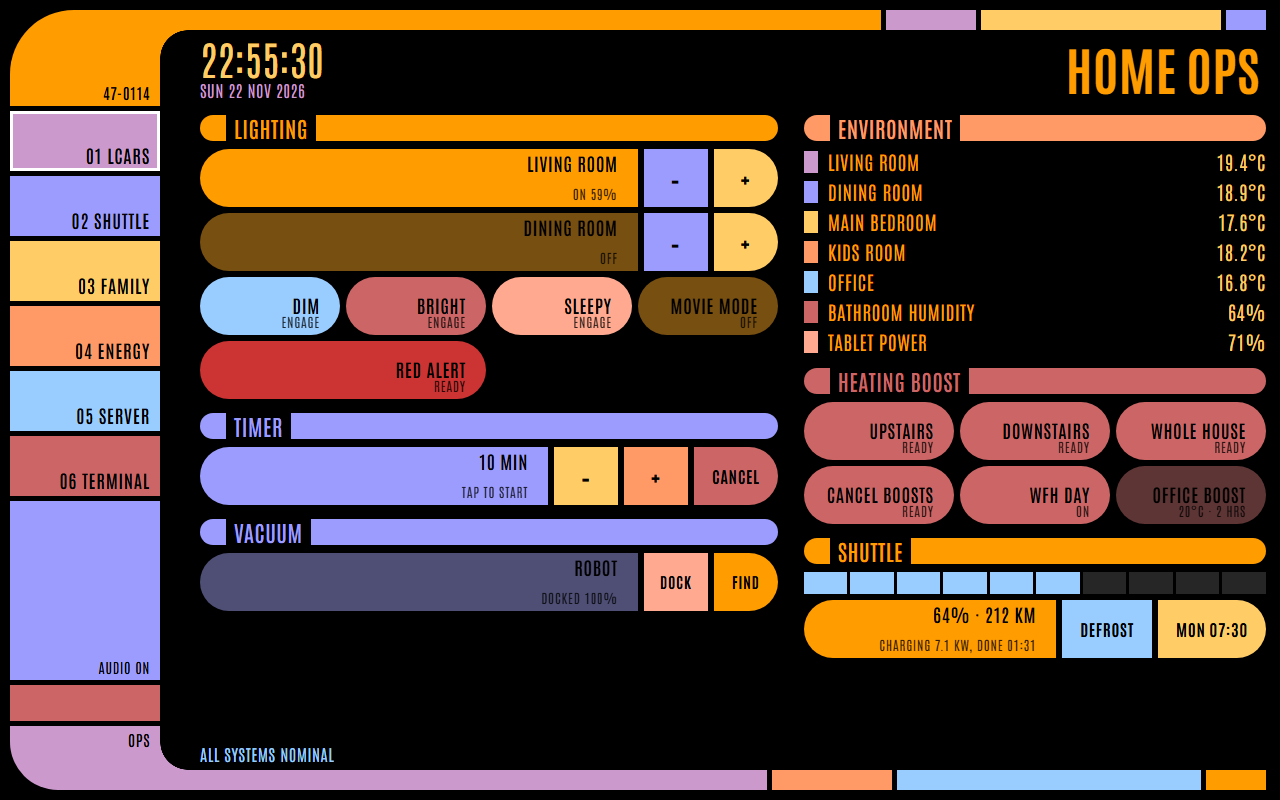
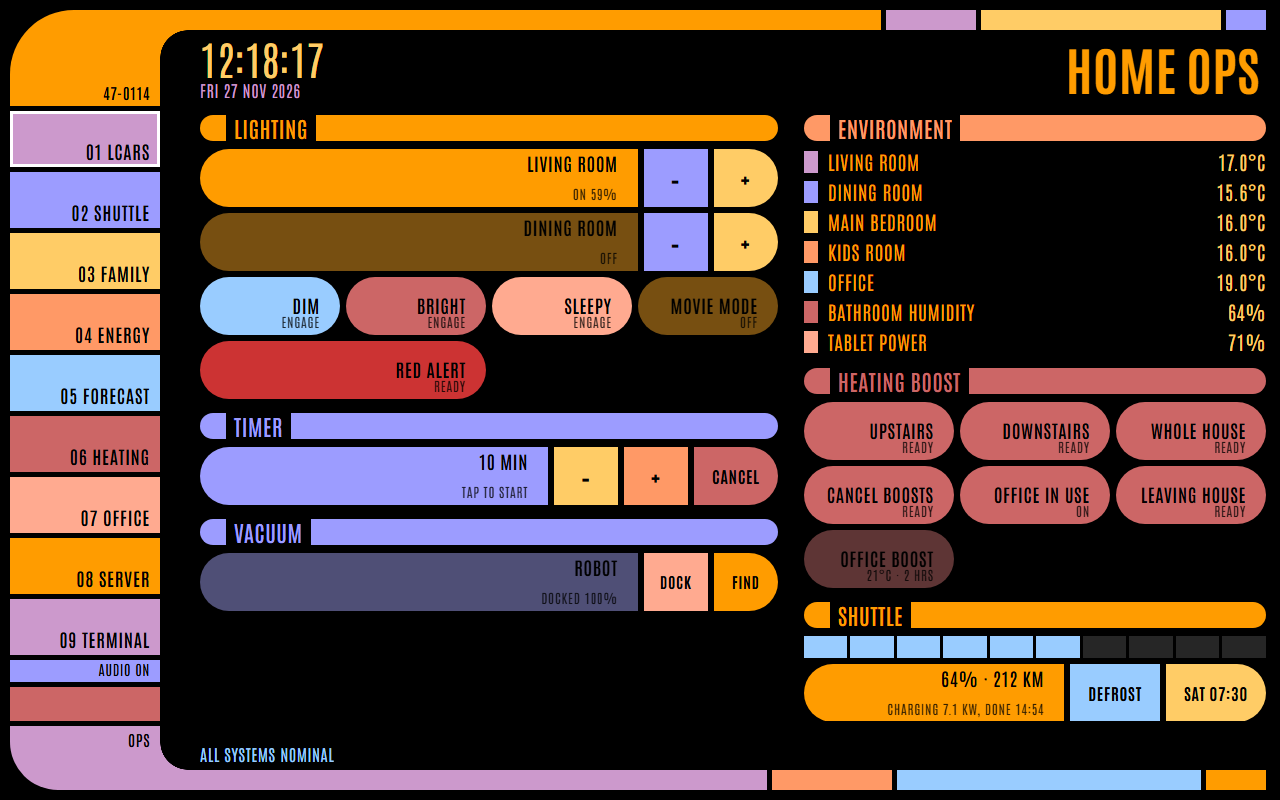
LCARS demo: Leaving house button

diff --git a/lcars/index.html b/lcars/index.html
@@ -164,7 +164,7 @@
     'sensor.bathroom_humidity': st('64'), 'sensor.tablet_battery': st('71'),
     'script.upstairs_boost': st('off'), 'script.downstairs_boost': st('off'), 'script.whole_house_boost': st('off'), 'script.cancel_boosts': st('off'),
     'input_number.office_boost_temp': st(21), 'switch.desk_socket': st('on'), 'sensor.desk_power': st(48), 'binary_sensor.office_working': st('on'),
-    'scene.office_sleepy': st('off'), 'script.office_boost_start': st('off'),
+    'scene.office_sleepy': st('off'), 'script.office_boost_start': st('off'), 'script.leaving_house': st('off'),
     'input_boolean.wfh_day': st('on'), 'script.office_boost_toggle': st('off'), 'timer.office_boost': st('idle'),
     'vacuum.robot': st('docked', { battery: 100 }),
     // car
@@ -229,7 +229,7 @@
       return { name: r.name, short: r.short, climate: 'climate.' + r.id, temp: r.electric ? undefined : 'sensor.demo_' + r.id + '_temp',
         heating: r.electric ? undefined : 'sensor.demo_' + r.id + '_heating', color: r.color, electric: r.electric }; }) },
     office: { climate: 'climate.office', timer: 'timer.office_boost', boost_temp: 'input_number.office_boost_temp', start: 'script.office_boost_start', wfh: 'input_boolean.wfh_day',
-      working: 'binary_sensor.office_working', socket: 'switch.desk_socket', scenes: [{ label: 'Sleepy', entity: 'scene.office_sleepy' }],
+      working: 'binary_sensor.office_working', socket: 'switch.desk_socket', leave: 'script.leaving_house', scenes: [{ label: 'Sleepy', entity: 'scene.office_sleepy' }],
       power: [{ name: 'Desk', power: 'sensor.desk_power', color: '#ffcc66' }], temps: [18, 19, 20, 21, 22], hours: [1, 2, 3] },
     family: {
       people: [
@@ -263,6 +263,7 @@
         { type: 'script', label: 'Whole house', entity: 'script.whole_house_boost' },
         { type: 'script', label: 'Cancel boosts', entity: 'script.cancel_boosts' },
         { type: 'toggle', label: 'Office in use', entity: 'input_boolean.wfh_day' },
+        { type: 'script', label: 'Leaving house', entity: 'script.leaving_house' },
         { type: 'script', label: 'Office boost', entity: 'script.office_boost_toggle', timer: 'timer.office_boost', idle_text: '21°C · 2 HRS' }] },
       { title: 'Shuttle', column: 2, only: 'lcars', car: true },
       { title: 'Vacuum', term_column: 1, items: [{ type: 'vacuum', label: 'Robot', entity: 'vacuum.robot' }] }],
@@ -304,6 +305,7 @@
           if (S['timer.office_boost'].state === 'active') officeBoost(null);
           else officeBoost(21, 2);
         }
+        if (id === 'script.leaving_house') set('input_boolean.wfh_day', 'off');
         if (id === 'script.office_boost_start') { var v = (data && data.variables) || {}; officeBoost(Math.round(v.temp || 21), v.hours || 2); }
         set(id, 'on'); setTimeout(function () { set(id, 'off'); push(); }, 1500);
       } else if (id === 'timer.office_boost' && service === 'cancel') {

diff --git a/lcars/tablet-panels.js b/lcars/tablet-panels.js
@@ -1996,7 +1996,8 @@ class LcarsPanelCard extends TabletPanelBase {
       ['07:00–00:00', '16°C', !boosting && day && !wfhOn ? 'hi' : ''],
       ['00:00–07:00', '12°C', !boosting && !day ? 'hi' : ''],
       ['Away 60 min', 'BACK TO 16°C', 'dim']]) +
-      '<div class="chips">' + (o.wfh ? chip(wfhOn, 'of:wfh', 'In use ' + (wfhOn ? 'on' : 'off'), LC[2]) : '') + '</div>';
+      '<div class="chips">' + (o.wfh ? chip(wfhOn, 'of:wfh', 'In use ' + (wfhOn ? 'on' : 'off'), LC[2]) : '') +
+      (o.leave ? chip(true, 'of:leave', 'Leaving house', LC[6]) : '') + '</div>';
     var sock = this._st(o.socket), sockOn = sock && sock.state === 'on';
     var desk = '<div class="chips">' + (o.socket ? chip(sockOn, 'of:sock', 'Desk power ' + (sockOn ? 'on' : 'off'), LC[4]) : '') +
       (o.scenes || []).map(function (s, i) { return chip(true, 'of:scene:' + i, s.label, LC[3]); }).join('') + '</div>' +
@@ -2040,6 +2041,11 @@ class LcarsPanelCard extends TabletPanelBase {
     if (p[1] === 'x' && boosting) {
       if (this._audioOn) tpAudio.seq(LCARS_SFX.off, 'sine', 0.15);
       this._call('timer', 'cancel', { entity_id: o.timer }, 'OFFICE BOOST CANCEL');
+      return;
+    }
+    if (p[1] === 'leave' && o.leave) {
+      if (this._audioOn) tpAudio.seq(LCARS_SFX.off, 'sine', 0.15);
+      this._call('script', 'turn_on', { entity_id: o.leave }, 'LEAVING HOUSE');
       return;
     }
     if (p[1] === 'wfh') { tap(); this._call('input_boolean', 'toggle', { entity_id: o.wfh }, 'OFFICE IN USE'); return; }
